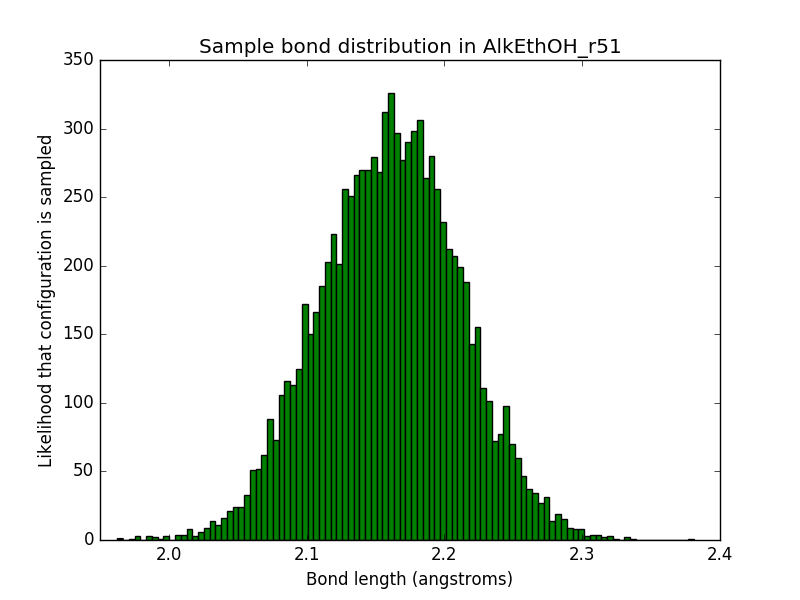
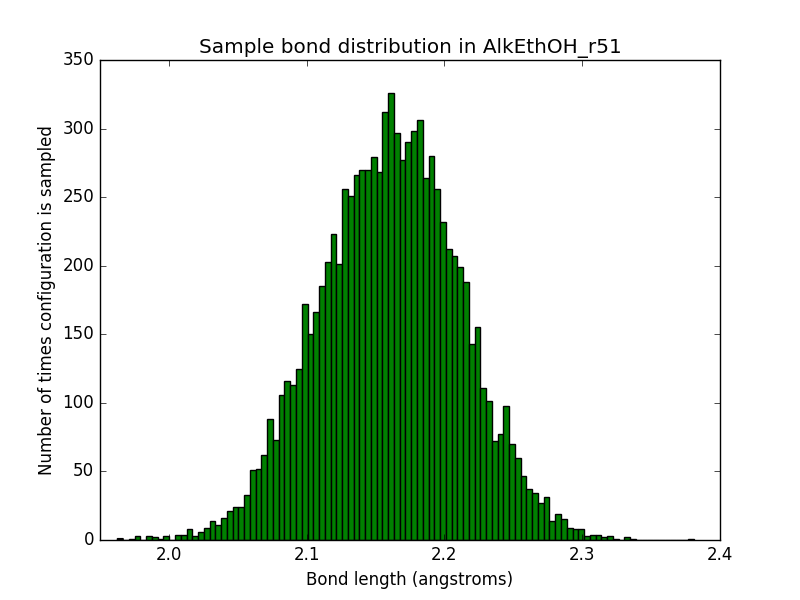
updates

Changed region(s): [[0.0312, 0.21, 0.0625, 0.81]]

diff --git a/single-molecule-property-generation/least_squares_fit_example.py b/single-molecule-property-generation/least_squares_fit_example.py
@@ -457,14 +457,14 @@ num_bins = 100
 
 plt.figure()
 plt.hist(bond_r51_a,num_bins,color='green')
-plt.ylabel('Likelihood that configuration is sampled')
+plt.ylabel('Number of times configuration is sampled')
 plt.xlabel('Bond length (angstroms)')
 plt.title('Sample bond distribution in AlkEthOH_r51')
 plt.savefig('sample_bond_AlkEthOH_r51.png')
 
 plt.figure()
 plt.hist(angle_r51_a,num_bins,color='green')
-plt.ylabel('Likelihood that configuration is sampled')
+plt.ylabel('Number of times configuration is sampled')
 plt.xlabel('Bond angle (radians)')
 plt.title('Sample angle distribution in AlkEthOH_r51')
 plt.savefig('sample_angle_AlkEthOH_r51.png')
@@ -498,7 +498,7 @@ plt.savefig('torsion_histograms/Torsion_likelihood_r48_r51_comp_tors_[#1:1]-[#6X
 
 plt.figure()
 plt.hist(torsion_r48_a,num_bins,label='AlkEthOH_r48',color='green')
-plt.ylabel('Likelihood that configuration is sampled')
+plt.ylabel('Number of times configuration is sampled')
 plt.xlabel('Torsion angle (radians)')
 plt.title('Torsion sample in AlkEthOH_r48')
 plt.savefig('torsion_histograms/r48/Torsion_likelihood_r48_tors_[#6X4:1]-[#6X4:2]-[#6X4:3]-[#6X4:4].png')
